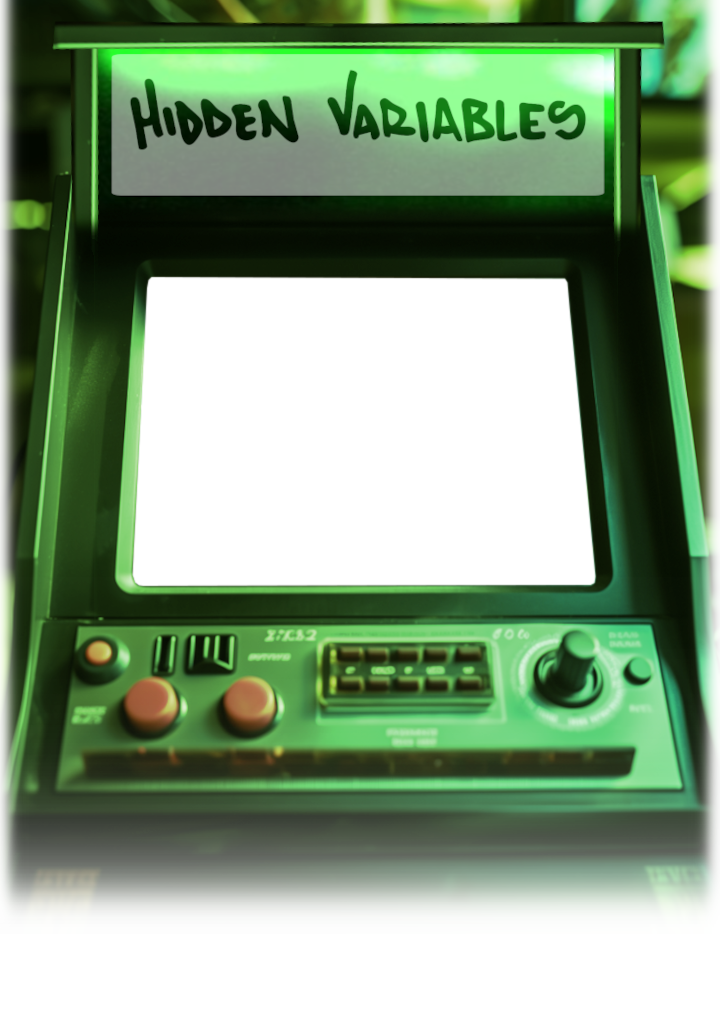
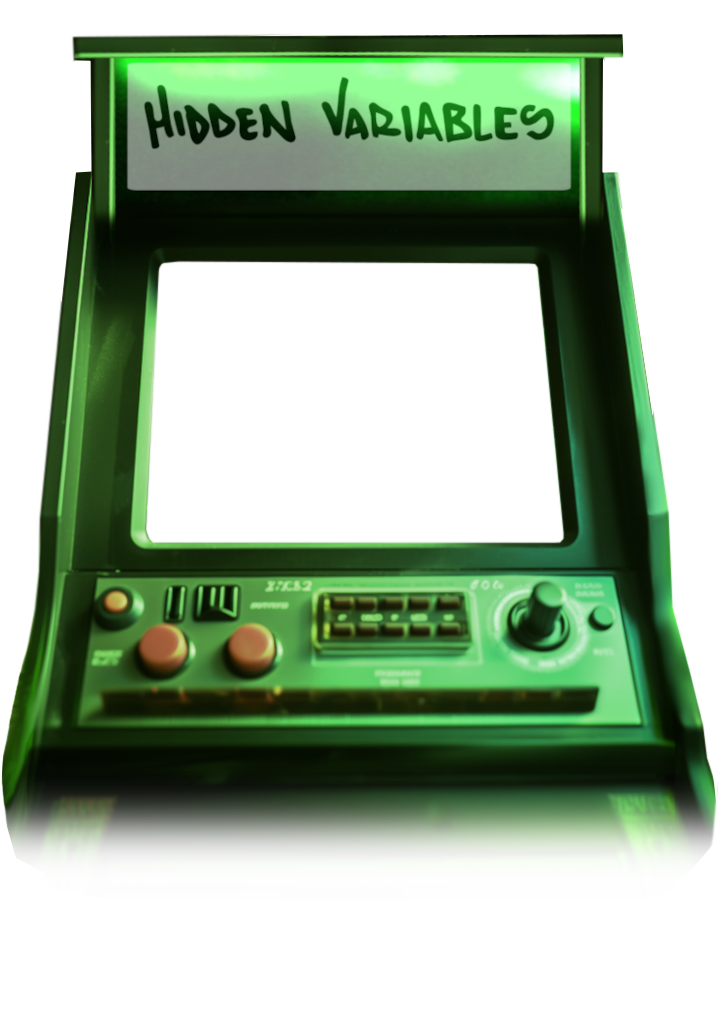
adding video background

diff --git a/hvgame.html b/hvgame.html
@@ -3,80 +3,131 @@
 <head>
   <title>Brick Breaker</title>
   <style>
-    body {
-        background-color: black;
-        background-image: url("hvgame.png");
-        background-repeat: no-repeat;
-        background-size: 935px auto;
-        background-color: none;
-        background-position: center top;
+    body, html {
+        height: 100%;
         margin: 0;
         padding: 0;
-        pointer-events: none; /* Disable all touch events on the image */
-        touch-action: none; /* Disable touch gestures */
+        user-select: none;
+        -moz-user-select: none;
+        -webkit-text-select: none;
+        -webkit-user-select: none;
+        background: none;
+        overflow: hidden; /* Disable all scrolling */
+    }
+
+    .background {
+        position: absolute;
+        width: 100%;
+        height: 100%;
+    }
+
+    .background video {
+        position: absolute;
+        top: 0;
+        left: 0;
+        width: 100%;
+        height: 100%;
+        z-index: 1; /* This will sit beneath the overlay image */
+        object-fit: fill;
+    }
+
+    .overlay-image {
+        position: absolute;
+        top: 0;
+        left: 50%;
+        width: 100%;
+        max-width: 900px;
+        height: 120%;  
+        background: url('hvgame.png') center top / 100% auto no-repeat;
+        z-index: 3;
+        transform: translate(-50%,0%);
+    }
+
+
+    #gameContainer {
+        width: 53%; 
+        margin-left: 22%;
+        margin-top: 38%; /* If original image height was 900px and original margin-top was 370px */
+        position: relative;
+        pointer-events: none;
+        touch-action: none;
         user-select: none;
         -moz-user-select: none;
         -webkit-text-select: none;
         -webkit-user-select: none;
     }
 
-    
-
-    #gameContainer {
-    width: 545px;
-    margin: auto;
-    margin-top: 370px;
-    position: relative;
-    pointer-events: none; /* Disable all touch events on the image */
-    touch-action: none; /* Disable touch gestures */
-    user-select: none;
-    -moz-user-select: none;
-    -webkit-text-select: none;
-    -webkit-user-select: none;
-    }
 
     #gameCanvas {
-    position: absolute;
-    width: 100%;
-    z-index: 2;
-    pointer-events: none; /* Disable all touch events on the image */
-    touch-action: none; /* Disable touch gestures */
-    user-select: none;
-    -moz-user-select: none;
-    -webkit-text-select: none;
-    -webkit-user-select: none;
-    }
-
-    #image {
-    width: 100%;
-    height: auto;
-    position: absolute;
-    top: 0;
-    left: 0;
-    z-index: 1;
-    pointer-events: none; /* Disable all touch events on the image */
-    touch-action: none; /* Disable touch gestures */
-    user-select: none;
-    -moz-user-select: none;
-    -webkit-text-select: none;
-    -webkit-user-select: none;
+        position: absolute;
+        width: 100%;
+        z-index: 4;
+        pointer-events: none;
+        touch-action: none;
+        user-select: none;
+        -moz-user-select: none;
+        -webkit-text-select: none;
+        -webkit-user-select: none;
     }
 
 
+    .black-square-contaniner {
+        position: absolute;
+        top: 0;
+        left: 50%;
+        width: 100%;
+        max-width: 900px;
+        height: 120%;  
+    }
 
+    .black-square {
+        width: 65%; 
+        margin-top: 30%; 
+        margin-left: -32%;
+        position: relative;
+        height: 40%;
+        background: black;
+        z-index: 2; /* This will sit between the video and the overlay image */
+    }
+
+    .black-fade {
+        width: 100%; 
+        margin-top: 0%; 
+        margin-left: 0%;
+        position: absolute;
+        height: 100%;
+        background: black;
+        z-index: 2; /* This will sit between the video and the overlay image */
+        opacity: 36%;
+    }
 
 
   </style>
 </head>
 <body>
-  <div id="gameContainer">
-    <canvas id="gameCanvas" width="480" height="320"></canvas>
-  </div>
-  <audio id="player" preload>
-    <source src="hvgame/1_DICE.mp3" type="audio/mp3">
-    Your browser does not support the audio element.
-</audio> 
+    <div class="background">
+        <video playsinline autoplay muted loop>
+            <source src="IMAGES/LASERS.mp4" type="video/mp4">
+            Your browser does not support the video tag.
+        </video>
+        <div class="black-square-contaniner">
+            <div class="black-square"></div> <!-- New div for the black square -->
+        </div> <!-- New div for the black square -->
+        <div class="black-fade"></div> <!-- New div for the black square -->
+        <div class="overlay-image">
+            <div id="gameContainer">
+                <canvas id="gameCanvas" width="480" height="320"></canvas>
+            </div>
+        </div>
+        <audio id="player" preload>
+            <source src="hvgame/1_DICE.mp3" type="audio/mp3">
+            Your browser does not support the audio element.
+        </audio> 
+    </div>  
+     
 <script type="module">
+
+
     const isMobile = /Android|webOS|iPhone|iPad|iPod|BlackBerry|IEMobile|Opera Mini/i.test(navigator.userAgent);
     console.log('Mobile: '+isMobile)
 
